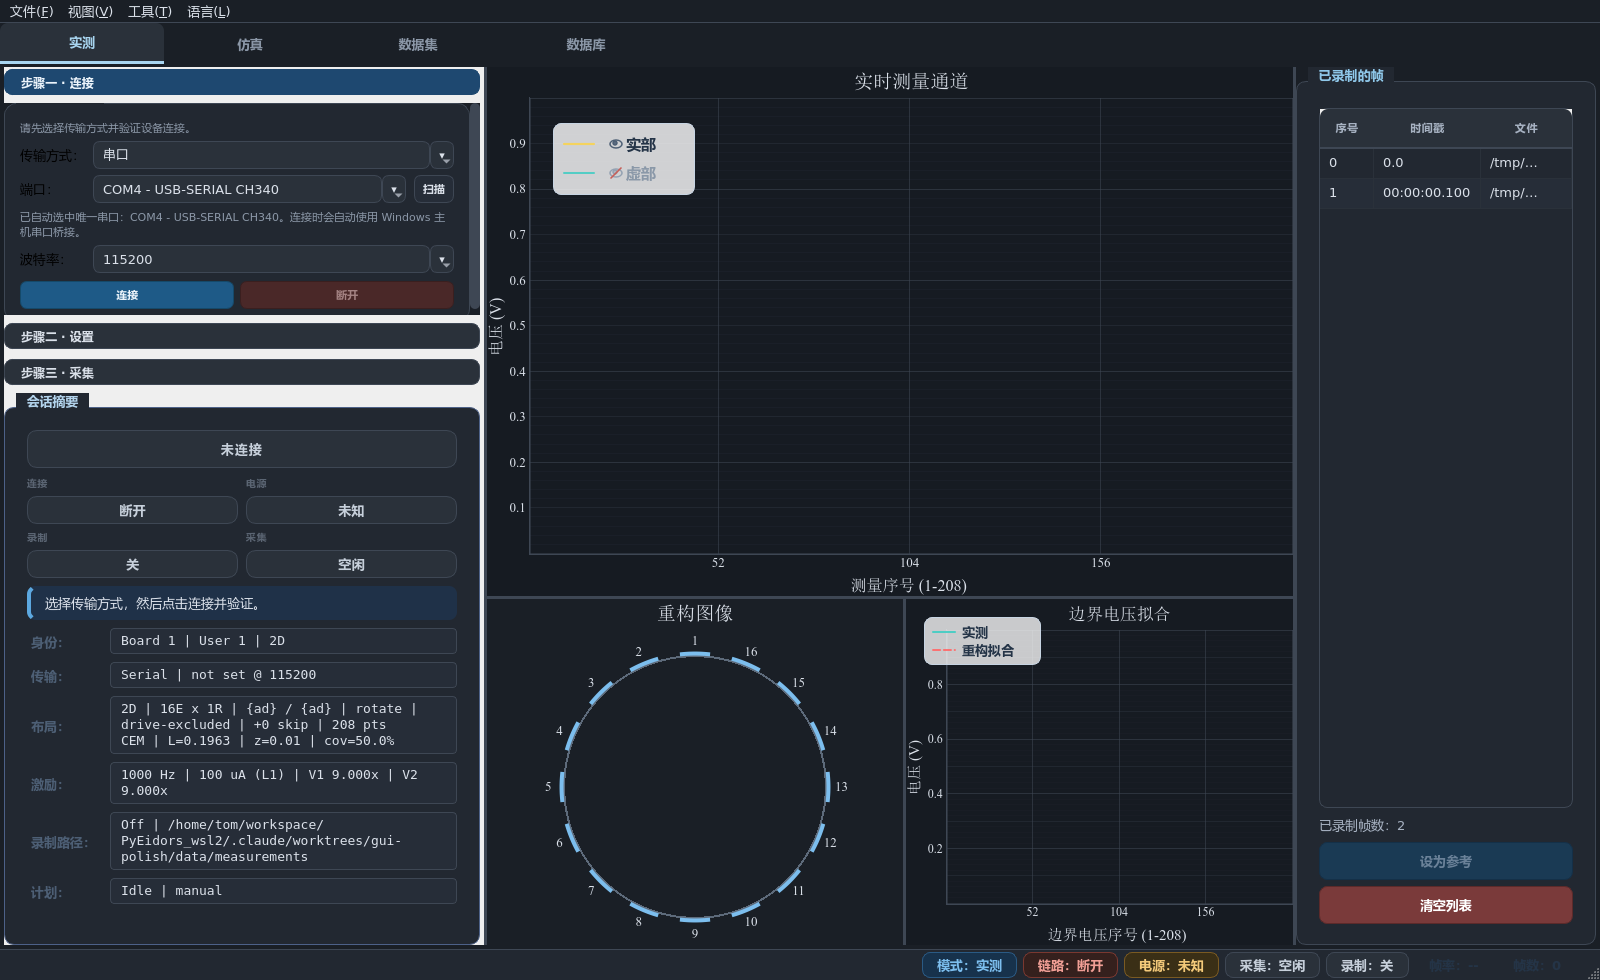
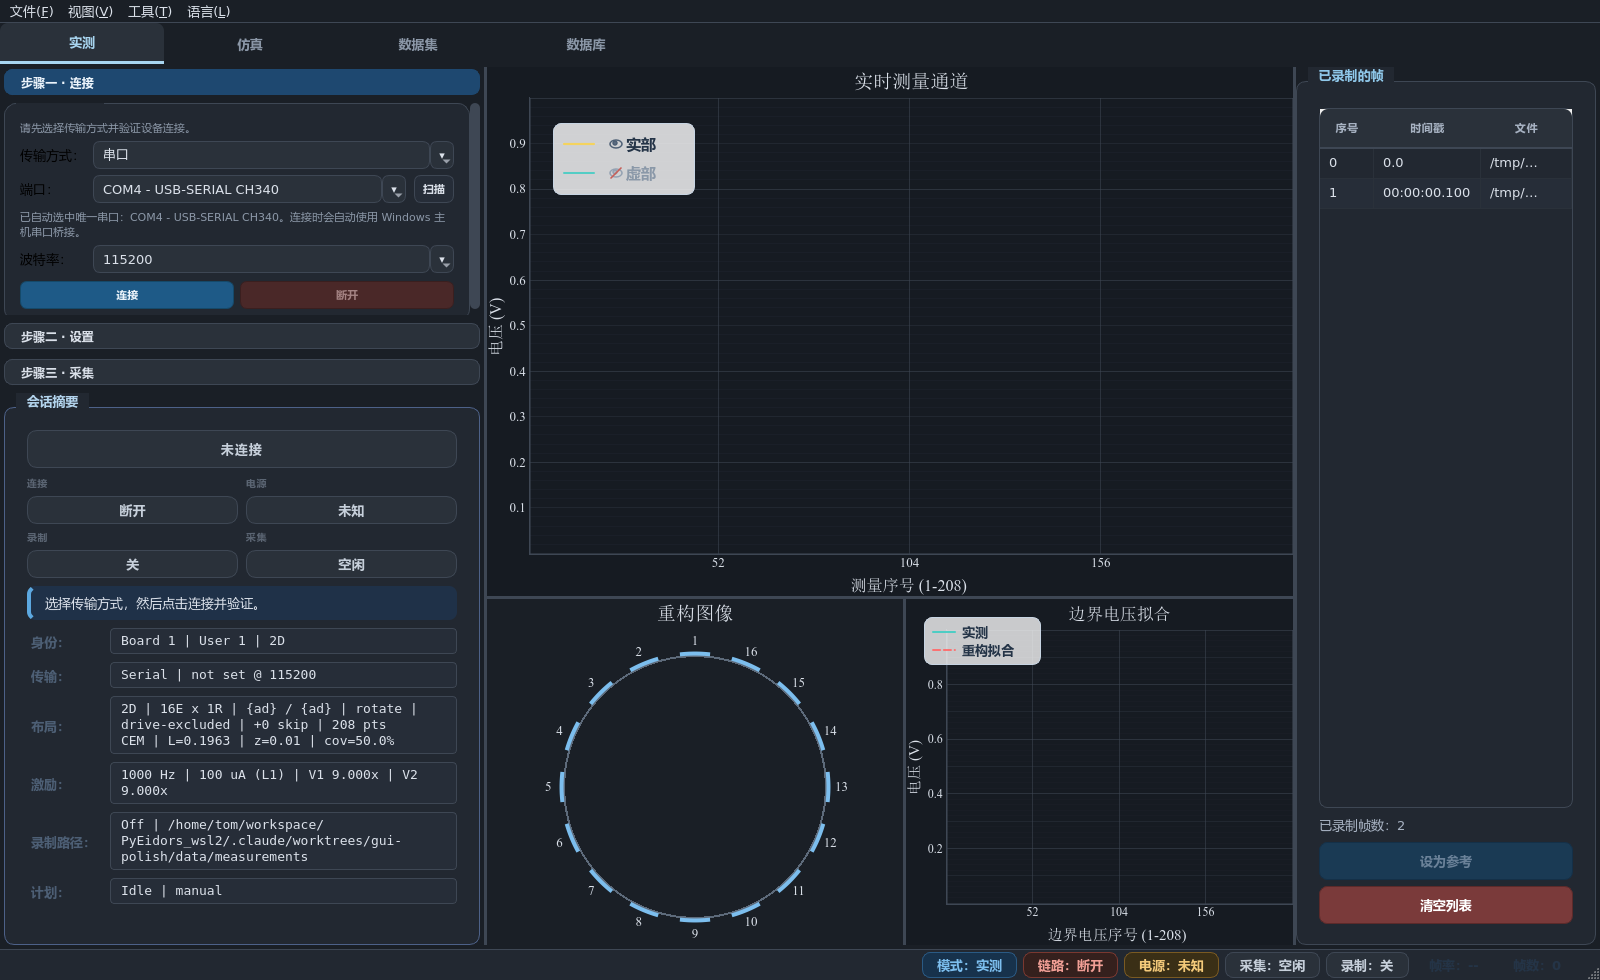
Kill the #efefef bright band leaking through WorkflowShell's scroll container
Pixel-probe of the dark-mode Hardware tab found a full-width
**#efefef (near pure-white)** strip across the left column — most
visibly a ~23px band between the last QToolBox tab ("Step 3 ·
Acquire") and the SessionSummaryPanel below it, plus thinner strips
around the connection form.

Root cause: WorkflowShell composes a QScrollArea > (auto-created
viewport QWidget) > left_container (QWidget) chain.  None of these
three intermediate widgets had any QSS scoping them, so Qt painted
them with the platform default QPalette — which on Linux renders
as #efefef.  The default color was visible through every
VBoxLayout spacing gap (6px between toolbox and left_footer) and
around the edges of the scroll viewport.

Fix in two coordinated changes:

1. workflow_shell.py: assign objectNames to the three widgets
   (`workflowScroll`, `workflowScrollViewport`,
   `workflowLeftContainer`) so QSS can reach them specifically
   without accidentally repainting unrelated QScrollAreas elsewhere
   in the app.

2. theme.py: add matching rules in both light (#eef3f8) and dark
   (#1a1f26) stylesheets so these widgets track the canvas exactly.
   The dark rule was the urgent one — at low luminance the
   platform-default #efefef was blatantly visible; at high luminance
   (light theme) #efefef blended into the #eef3f8 canvas, hiding
   the latent leak but still technically wrong.

Bonus fix in the same pass: QComboBox::down-arrow now uses the
[…]

Changed region(s): [[0.0, 0.3061, 0.3125, 0.4286], [0.0, 0.0612, 0.3125, 0.1224]]

diff --git a/src/eit_app/ui/theme.py b/src/eit_app/ui/theme.py
@@ -609,6 +609,17 @@ QToolBox#workflowToolbox > QWidget {
     background: #f9fbfe;
 }
 
+/* WorkflowShell intermediate QWidgets — explicitly match the canvas
+   so platform-palette defaults (#efefef on Linux) don't leak through
+   VBoxLayout gaps between the toolbox and any left_footer widget.
+   See the matching dark-mode block near the bottom of this file. */
+QScrollArea#workflowScroll,
+QWidget#workflowScrollViewport,
+QWidget#workflowLeftContainer {
+    background: #eef3f8;
+    border: none;
+}
+
 QGroupBox {
     background: #ffffff;
     border: 1px solid #e0e6ee;
@@ -805,8 +816,17 @@ QComboBox::drop-down {
 }
 
 QComboBox::down-arrow {
+    /* Without an explicit image, Qt falls back to its native down-arrow
+       which renders as a near-white glyph (#efefef-ish) on platforms
+       where QStyle paints it directly — an obvious bright rectangle
+       on a dark combobox button.  Use the same DPR-aware SVG as
+       QSpinBox / QDateEdit so all dropdowns share one glyph. */
+    image: __ARROW_DOWN_IDLE__;
     width: 10px;
     height: 10px;
+}
+QComboBox::down-arrow:hover {
+    image: __ARROW_DOWN_HOVER__;
 }
 
 QComboBox QAbstractItemView {
@@ -1377,6 +1397,20 @@ QToolBox#workflowToolbox > QWidget {
        both colors are near-white; the same 4-point gap is much more
        noticeable at low luminance.) */
     background: #1a1f26;
+}
+
+/* WorkflowShell left column — three intermediate QWidgets that would
+   otherwise paint Qt's platform-default palette (#efefef near-white
+   on Linux) and show through every VBoxLayout gap as a bright
+   horizontal band.  The most obvious leak was the strip between the
+   last QToolBox tab and the ``left_footer`` widget below it (e.g.
+   SessionSummaryPanel on the Hardware tab).  Target them by
+   objectName so this doesn't accidentally repaint unrelated widgets. */
+QScrollArea#workflowScroll,
+QWidget#workflowScrollViewport,
+QWidget#workflowLeftContainer {
+    background: #1a1f26;
+    border: none;
 }
 
 /* === GroupBox / section panels === */

diff --git a/src/eit_app/ui/workflow_shell.py b/src/eit_app/ui/workflow_shell.py
@@ -88,6 +88,18 @@ class WorkflowShell(QWidget):
         left_scroll.setMinimumWidth(step_min_width)
 
         left_container = QWidget()
+        # Assign objectNames so the dark theme can specifically target
+        # these intermediate QWidgets.  Without this, the QScrollArea
+        # viewport and the container both paint with Qt's platform-
+        # default QPalette — which on Linux renders as #efefef (near-
+        # pure-white) and shows through every VBoxLayout gap as a
+        # visibly bright band.  We saw this most prominently as a
+        # white strip between the last QToolBox tab and any
+        # ``left_footer`` widget (e.g. SessionSummaryPanel in the
+        # Hardware tab).
+        left_scroll.setObjectName("workflowScroll")
+        left_scroll.viewport().setObjectName("workflowScrollViewport")
+        left_container.setObjectName("workflowLeftContainer")
         left_layout = QVBoxLayout(left_container)
         left_layout.setContentsMargins(0, 0, 4, 0)
         left_layout.setSpacing(6)
